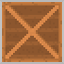
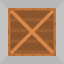
Finished the hole in the ground. Updated filled hole texture. Added hole to the level creator.

diff --git a/main.py b/main.py
@@ -28,7 +28,7 @@ levels = [
     [
         "WWWWWWWWWWWWWWWWW",
         "W               W",
-        "W   H     G     W",
+        "W         G     W",
         "W     WWWW      W",
         "W      W        W",
         "WWWWB  W     WWWW",
@@ -170,14 +170,14 @@ while running:
 
         for wall in walls:
             wall.draw(screen)
+        for hole in holes:
+            hole.draw(screen)
         for goal in goals:
             if goal.boxInGoal(boxes):
                 score += 1
             goal.draw(screen)
         for box in boxes:
             box.draw(screen)
-        for hole in holes:
-            hole.draw(screen)
 
         if score == len(goals):
             if len(levels) <= level + 1:
@@ -195,10 +195,44 @@ while running:
         walls = []
         boxes = []
         goals = []
+        holes = []
         player = None
         testing = False
         debug = True
         block = None
+        levelX = levelY = 0
+        customLevel = [
+            "WWWWWWWWWWWWWWWWW",
+            "W               W",
+            "W               W",
+            "W               W",
+            "W               W",
+            "W               W",
+            "W               W",
+            "W               W",
+            "W               W",
+            "W               W",
+            "W               W",
+            "WWWWWWWWWWWWWWWWW"
+        ]
+        for row in customLevel:
+            for col in row:
+                if col == "W":
+                    walls.append(wallClass.wall(levelX, levelY))
+                if col == "B":
+                    boxes.append(boxClass.box(levelX, levelY))
+                if col == "P":
+                    player = playerClass.player(levelX, levelY)
+                if col == "G":
+                    goals.append(goalClass.goal(levelX, levelY))
+                if col == "H":
+                    holes.append(holeClass.hole(levelX, levelY))
+                levelX += 64
+            levelY += 64
+            levelX = 0
+        objects.append(walls)
+        objects.append(holes)
+
     while gameStage == 3:
         mousePos = pygame.mouse.get_pos()
         screen.fill((100, 100, 100))
@@ -250,6 +284,9 @@ while running:
                             for box in boxes:
                                 if box.hitBox.x == levelX and box.hitBox.y == levelY:
                                     col = "B"
+                            for hole in holes:
+                                if hole.hitBox.x == levelX and hole.hitBox.y == levelY:
+                                    col = "H"
                             if player is not None:
                                 if player.hitBox.x == levelX and player.hitBox.y == levelY:
                                     col = "P"
@@ -288,12 +325,12 @@ while running:
 
             if event.type == pygame.MOUSEBUTTONUP:
                 if event.button == 4:
-                    if mouseState - 1 > 5 or mouseState - 1 < 1:
-                        mouseState = 5
+                    if mouseState - 1 > 6 or mouseState - 1 < 1:
+                        mouseState = 6
                     else:
                         mouseState -= 1
                 if event.button == 5:
-                    if mouseState + 1 > 5 or mouseState + 1 < 1:
+                    if mouseState + 1 > 6 or mouseState + 1 < 1:
                         mouseState = 1
                     else:
                         mouseState += 1
@@ -311,6 +348,9 @@ while running:
                         player = playerClass.player((math.ceil(mousePos[0] / 64) - 1) * 64,
                                                     (math.ceil(mousePos[1] / 64) - 1) * 64)
                     if mouseState == 5:
+                        holes.append(holeClass.hole((math.ceil(mousePos[0] / 64) - 1) * 64,
+                                                    (math.ceil(mousePos[1] / 64) - 1) * 64))
+                    if mouseState == 6:
                         for wall in walls:
                             if wall.hitBox.y == (math.ceil(mousePos[1] / 64) - 1) * 64 and wall.hitBox.x == (
                                     math.ceil(mousePos[0] / 64) - 1) * 64:
@@ -335,6 +375,8 @@ while running:
             block = goalClass.goal((math.ceil(mousePos[0] / 64) - 1) * 64, (math.ceil(mousePos[1] / 64) - 1) * 64)
         elif mouseState == 4:
             block = playerClass.player((math.ceil(mousePos[0] / 64) - 1) * 64, (math.ceil(mousePos[1] / 64) - 1) * 64)
+        elif mouseState == 5:
+            block = holeClass.hole((math.ceil(mousePos[0] / 64) - 1) * 64, (math.ceil(mousePos[1] / 64) - 1) * 64)
         pygame.mouse.set_visible(True)
         for wall in walls:
             wall.draw(screen)
@@ -343,9 +385,11 @@ while running:
             goal.draw(screen)
         for box in boxes:
             box.draw(screen)
+        for hole in holes:
+            hole.draw(screen)
         if player is not None:
             player.draw(screen)
-        if mouseState != 5:
+        if mouseState != 6:
             if block is not None:
                 block.draw(screen)
         pygame.display.update()

diff --git a/playerClass.py b/playerClass.py
@@ -9,7 +9,7 @@ class player(object):
         self.hitBox.y = startY
         self.moves = 0
 
-    def move(self, key, objects, boxes):
+    def move(self, key, _objects, boxes):
         xChange = 0
         yChange = 0
         if key[pygame.K_DOWN] or key[pygame.K_s]:
@@ -30,7 +30,7 @@ class player(object):
 
         if xChange != 0 or yChange != 0:
             if self.isPushing(boxes, xChange, yChange):
-                if self.noObjInBox(boxes, objects, xChange, yChange):
+                if self.noObjInBox(boxes, _objects, xChange, yChange):
                     playerHitBox = pygame.Rect(self.hitBox[0] + xChange, self.hitBox[1] + yChange, self.hitBox[2],
                                                self.hitBox[3])
                     for box in boxes:
@@ -42,7 +42,7 @@ class player(object):
                     self.moves += 1
 
             else:
-                if self.canMove(objects, xChange, yChange):
+                if self.canMove(_objects, xChange, yChange):
                     self.hitBox.x += xChange
                     self.hitBox.y += yChange
                     self.moves += 1
@@ -52,7 +52,13 @@ class player(object):
         for x in objects:
             for obj in x:
                 if playerHitBox.colliderect(obj.hitBox):
-                    return False
+                    try:
+                        if obj.fill:
+                            return True
+                        else:
+                            return False
+                    except AttributeError:
+                        return False
         return True
 
     def isPushing(self, boxes, xChange, yChange):
@@ -71,7 +77,14 @@ class player(object):
                 for _x in objects:
                     for obj in _x:
                         if boxHitBox.colliderect(obj.hitBox):
-                            return False
+                            try:
+                                if obj.fill:
+                                    return True
+                                else:
+                                    boxes.remove(box)
+                                    obj.fill = True
+                            except AttributeError:
+                                return False
             for box2 in boxes:
                 if playerHitBox.colliderect(box.hitBox):
                     if boxHitBox.colliderect(box2.hitBox):

diff --git a/holeClass.py b/holeClass.py
@@ -4,10 +4,15 @@ import pygame
 class hole(object):
     def __init__(self, startX, startY):
         self.image = pygame.image.load("game_art/hole.png")
+        self.image_fill = pygame.image.load("game_art/holeFill.png")
+        self.fill = False
         self.hitBox = self.image.get_rect()
         self.hitBox.x = startX
         self.hitBox.y = startY
 
     def draw(self, surface):
-        surface.blit(self.image, self.hitBox)
+        if not self.fill:
+            surface.blit(self.image, self.hitBox)
+        else:
+            surface.blit(self.image_fill, self.hitBox)
 
